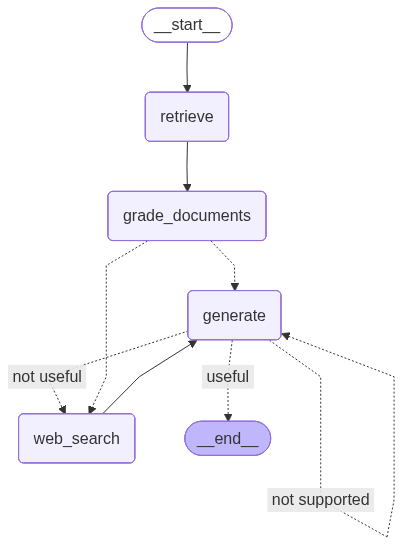
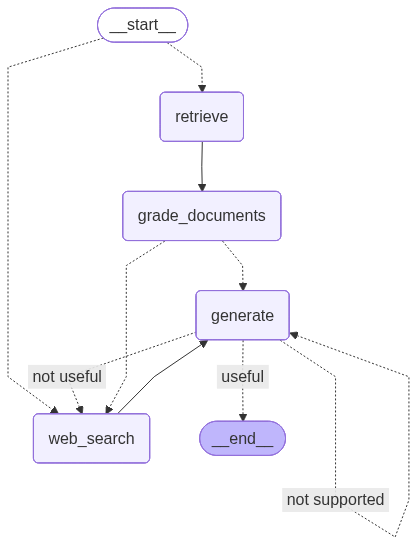
Update main.py greeting format, enhance routing functionality in graph.py, and add question routing logic in router.py. Introduce VECTORSTORE constant in consts.py and update tests for routing functionality.

diff --git a/graph/graph.py b/graph/graph.py
@@ -1,8 +1,10 @@
 from dotenv import load_dotenv
 from langgraph.graph import END, StateGraph
 
-from graph.chains import hallucination_grader, answer_grader
-from graph.consts import GENERATE, GRADE_DOCUMENTS, RETRIEVE, WEB_SEARCH, NOT_SUPPORTED, NOT_USEFUL, USEFUL
+from graph.chains import answer_grader, hallucination_grader, question_router
+from graph.chains.router import RouteQuery
+from graph.consts import (GENERATE, GRADE_DOCUMENTS, NOT_SUPPORTED, NOT_USEFUL,
+                          RETRIEVE, USEFUL, VECTORSTORE, WEB_SEARCH)
 from graph.nodes import generate, grade_documents, retrieve, web_search
 from graph.state import GraphState
 
@@ -19,30 +21,41 @@ def decide_to_generate(state):
         print("---DECISION: GENERATE---")
         return GENERATE
 
+
 def grade_generation_grounded_in_documents_and_question(state: GraphState) -> str:
     print("---CHECK HALLUCINATIONS---")
     question = state["question"]
     documents = state["documents"]
     generation = state["generation"]
-    
+
     score = hallucination_grader.invoke(
         {"documents": documents, "generation": generation}
     )
     if hallucination_grade := score.binary_score:
         print("---DECISION: GENERATION IS GROUNDED IN DOCUMENTS---")
         print("---GRADE GENERATION vs QUESTION---")
-        score = answer_grader.invoke(
-            {"question": question, "generation": generation}
-        )
+        score = answer_grader.invoke({"question": question, "generation": generation})
         if answer_grade := score.binary_score:
             print("---DECISION: GENERATION ADDRESSES QUESTION---")
-            return "useful" 
+            return "useful"
         else:
             print("---DECISION: GENERATION DOES NOT ADDRESS QUESTION---")
-            return "not useful" # Use tavily search
+            return "not useful"  # Use tavily search
     print("---DECISION: GENERATION IS NOT GROUNDED IN DOCUMENTS, REGENERATE ANSWER---")
     return "not supported"
-               
+
+
+def route_question(state: GraphState) -> str:
+    print("---ROUTE QUESTION---")
+    question = state["question"]
+    source: RouteQuery = question_router.invoke({"question": question})
+    if source.datasource == WEB_SEARCH:
+        print("---ROUTE QUESTION TO WEB SEARCH---")
+        return WEB_SEARCH
+    elif source.datasource == VECTORSTORE:
+        print("---ROUTE QUESTION TO RAG---")
+        return RETRIEVE
+
 
 workflow = StateGraph(GraphState)
 
@@ -51,7 +64,10 @@ workflow.add_node(GRADE_DOCUMENTS, grade_documents)
 workflow.add_node(GENERATE, generate)
 workflow.add_node(WEB_SEARCH, web_search)
 
-workflow.set_entry_point(RETRIEVE)
+workflow.set_conditional_entry_point(
+    route_question, path_map={WEB_SEARCH: WEB_SEARCH, RETRIEVE: RETRIEVE}
+)
+
 workflow.add_edge(RETRIEVE, GRADE_DOCUMENTS)
 workflow.add_conditional_edges(
     GRADE_DOCUMENTS,
@@ -65,11 +81,7 @@ workflow.add_conditional_edges(
 workflow.add_conditional_edges(
     GENERATE,
     grade_generation_grounded_in_documents_and_question,
-    path_map={
-        NOT_SUPPORTED: GENERATE,
-        USEFUL: END,
-        NOT_USEFUL: WEB_SEARCH
-    }
+    path_map={NOT_SUPPORTED: GENERATE, USEFUL: END, NOT_USEFUL: WEB_SEARCH},
 )
 workflow.add_edge(WEB_SEARCH, GENERATE)
 workflow.add_edge(GENERATE, END)

diff --git a/graph/chains/router.py b/graph/chains/router.py
@@ -1,14 +1,48 @@
+import os
 from typing import Literal
 
+from dotenv import load_dotenv
 from langchain_core.prompts import ChatPromptTemplate
-from pydantic import BaseModel, Field
 from langchain_google_genai import ChatGoogleGenerativeAI
+from pydantic import BaseModel, Field
 
 
 class RouteQuery(BaseModel):
     """Route a user query to the most relevant datasource."""
-    
+
     datasource: Literal["vectorstore", "websearch"] = Field(
         ...,
-        description="Given a user question choose to route it to web search or a vectorstore"
+        description="Given a user question choose to route it to web search or a vectorstore",
     )
+
+
+# Load environment variables
+load_dotenv()
+
+# Get API key and ensure it's set
+api_key = os.getenv("GEMINI_API_KEY")
+if not api_key:
+    raise ValueError(
+        "GEMINI_API_KEY environment variable is not set. Please set it in your .env file."
+    )
+
+# Allow model to be configured via environment variable, with fallback options
+# Options: gemini-2.5-flash (20 req/day free), gemini-2.5-flash-lite (1000 req/day free), gemini-1.5-flash
+model = os.getenv(
+    "GEMINI_MODEL", "gemini-2.5-flash-lite"
+)  # Default to lite for higher quota
+
+llm = ChatGoogleGenerativeAI(model=model, temperature=0, google_api_key=api_key)
+structured_llm_router = llm.with_structured_output(RouteQuery)
+
+system = """You are an expert at routing a user question to a vectorstore or web search.
+The vectorstore contains documents related to agents, prompt engineering, and adversarial attacks.
+Use the vectorstore for questions on these topics. For all else, use web-search."""
+route_prompt = ChatPromptTemplate.from_messages(
+    [
+        ("system", system),
+        ("human", "{question}"),
+    ]
+)
+
+question_router = route_prompt | structured_llm_router

diff --git a/graph/chains/tests/test_chains.py b/graph/chains/tests/test_chains.py
@@ -4,13 +4,15 @@ import pytest
 from dotenv import load_dotenv
 from google.api_core.exceptions import PermissionDenied, ResourceExhausted
 
+from graph.chains.router import RouteQuery, question_router
+
 load_dotenv()
 
 
 from graph.chains.generation import generation_chain
-from graph.chains.hallucination_grader import GradeHallucinations, hallucination_grader
+from graph.chains.hallucination_grader import (GradeHallucinations,
+                                               hallucination_grader)
 from graph.chains.retrieval_grader import GradeDocuments, retrieval_grader
-
 # from graph.chains.router import RouteQuery, question_router
 from ingestion import retriever
 
@@ -83,15 +85,15 @@ def test_hallucination_grader_answer_no() -> None:
     assert not res.binary_score
 
 
-# def test_router_to_vectorstore() -> None:
-#     question = "agent memory"
+def test_router_to_vectorstore() -> None:
+    question = "agent memory"
 
-#     res: RouteQuery = question_router.invoke({"question": question})
-#     assert res.datasource == "vectorstore"
+    res: RouteQuery = question_router.invoke({"question": question})
+    assert res.datasource == "vectorstore"
 
 
-# def test_router_to_websearch() -> None:
-#     question = "how to make pizza"
+def test_router_to_websearch() -> None:
+    question = "how to make pizza"
 
-#     res: RouteQuery = question_router.invoke({"question": question})
-#     assert res.datasource == "websearch"
+    res: RouteQuery = question_router.invoke({"question": question})
+    assert res.datasource == "websearch"

diff --git a/graph/chains/__init__.py b/graph/chains/__init__.py
@@ -1,6 +1,17 @@
-from graph.chains.generation import generation_chain
-from graph.chains.retrieval_grader import GradeDocuments, retrieval_grader
 from graph.chains.answer_grader import GradeAnswer, answer_grader
-from graph.chains.hallucination_grader import GradeHallucinations, hallucination_grader
+from graph.chains.generation import generation_chain
+from graph.chains.hallucination_grader import (GradeHallucinations,
+                                               hallucination_grader)
+from graph.chains.retrieval_grader import GradeDocuments, retrieval_grader
+from graph.chains.router import question_router
 
-__all__ = ["retrieval_grader", "GradeDocuments", "generation_chain", "GradeAnswer", "answer_grader", "GradeHallucinations", "hallucination_grader"]
+__all__ = [
+    "retrieval_grader",
+    "question_router",
+    "GradeDocuments",
+    "generation_chain",
+    "GradeAnswer",
+    "answer_grader",
+    "GradeHallucinations",
+    "hallucination_grader",
+]

diff --git a/main.py b/main.py
@@ -5,11 +5,11 @@ load_dotenv()
 from graph.graph import app
 
 if __name__ == "__main__":
-    print("HELLO ADVANCED RAG")
+    print("---HELLO ADVANCED RAG---")
     print(
         app.invoke(
             input={
-                "question": "What is the most efficient way to identify the encoding by LLM dynamically. For example, is there a pypi library"
+                "question": "What is agent memory?"
             }
         )
     )

diff --git a/graph/consts.py b/graph/consts.py
@@ -12,3 +12,6 @@ ANSWER_GRADER = "answer_grader"
 NOT_SUPPORTED = "not supported"
 USEFUL = "useful"
 NOT_USEFUL = "not useful"
+
+# router
+VECTORSTORE = "vectorstore"
